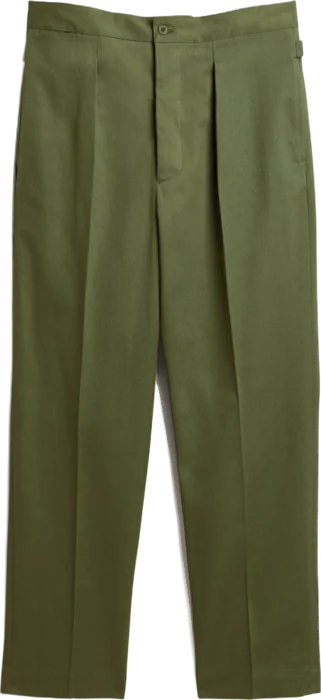
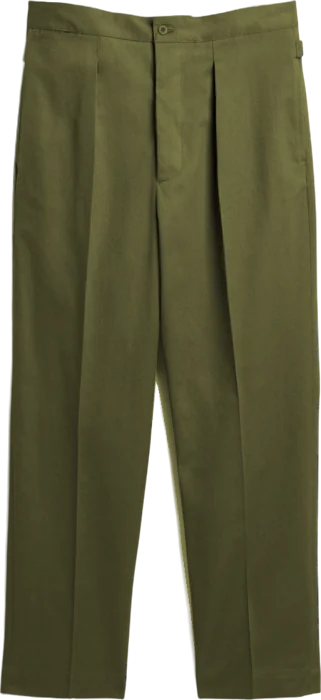
Cleaner Milano cut-out; Mogador recoloured to olive drab (1.0.20)
- Milano: hand and sleeve removed, side edges rebuilt as straight lines.
- Importer: new "tint X" field recolours a cut-out to the colour you own,
  keeping folds and shading.

Changed region(s): [[0.4673, 0.54, 0.5919, 0.87], [0.9346, 0.12, 0.9657, 0.18]]

diff --git a/docs/sw.js b/docs/sw.js
@@ -1,6 +1,6 @@
 // Offline copy of the app. tools/release.cjs bumps VERSION and refreshes FILES on every release,
 // which is what makes phones notice a new version.
-const VERSION = 'wardrobe-v1.0.19';
+const VERSION = 'wardrobe-v1.0.20';
 // FILES-START
 const FILES = ["./","data/items.json","data/wishlist.json","icon-192.png","icon-512.png","index.html","manifest.webmanifest"];
 // FILES-END

diff --git a/docs/index.html b/docs/index.html
@@ -322,7 +322,7 @@ body.building .toast{bottom:calc(80px + env(safe-area-inset-bottom))}
 <div class="toast" id="toast" role="status" aria-live="polite"><span id="toastMsg"></span><button id="toastUndo">Undo</button></div>
 
 <script>
-const APP_VERSION='1.0.19';
+const APP_VERSION='1.0.20';
 /* ===== storage ===== */
 const KEY='wardrobe-db-v2';
 const $=id=>document.getElementById(id);

diff --git a/tools/import_items.py b/tools/import_items.py
@@ -13,6 +13,8 @@ Fields:  size X           the size you own (as the shop writes it)
          photo FILE       a photo in import/photos (laid flat or hung, plain background)
          cat top|bottom|jacket|shoes   if the guess is wrong
          worn N           times already worn before the app (counts towards cost per wear)
+         tint X           recolour the photo when the shop's colour differs from yours
+                          (a colour name from the list below, or #rrggbb), keeping folds and shading
          any 'measure number' pairs (length 70, chest 110, waist 82, inseam 81,
          front rise 30) - used when the shop has no size chart
 """
@@ -56,7 +58,7 @@ def parse_line(line):
     head, fields = parts[0], {}
     meas = {}
     for p in parts[1:]:
-        m = re.match(r'(size|photo|cat|name|brand|link|paid|price|bought|from|store|colou?r|notes?|priority|worn)\s*:?\s+(.+)$', p, re.I)
+        m = re.match(r'(size|photo|cat|name|brand|link|paid|price|bought|from|store|colou?r|notes?|priority|worn|tint)\s*:?\s+(.+)$', p, re.I)
         if m:
             fields[m.group(1).lower()] = m.group(2).strip()
             continue
@@ -183,6 +185,19 @@ def placeholder(cat, colour, shorts=False, long_sleeves=False):
     return im.crop(im.getbbox())
 
 
+def tint(rgba, colour):
+    """Recolour a cut-out to `colour` (name or #hex): the garment's average becomes that colour,
+    and every pixel keeps its brightness relative to the average, so folds and texture stay."""
+    hexc = COLOURS.get(colour.lower(), colour).lstrip('#')
+    target = np.array([int(hexc[i:i + 2], 16) for i in (0, 2, 4)], float)
+    a = np.asarray(rgba).astype(float)
+    solid = a[..., 3] > 128
+    lum = a[..., :3] @ [0.299, 0.587, 0.114]
+    rel = lum / max(np.median(lum[solid]), 1)
+    a[..., :3] = np.clip(target * rel[..., None], 0, 255)
+    return Image.fromarray(a.astype('uint8'), 'RGBA')
+
+
 def colour_of(text):
     t = text.lower()
     for name in sorted(COLOURS, key=len, reverse=True):
@@ -262,6 +277,8 @@ def main(path, wishlist=False):
             long_sl = bool(re.search(r'sweater|sweatshirt|hoodie|jumper|knit|long.sleeve|shirt\b|oxford|flannel|jacket|coat|cardigan|overshirt', title, re.I)) and not re.search(r't-?shirt|\btee\b', title, re.I)
             rgba = placeholder(cat, colour_of(title), is_shorts, long_sl)
             notes.append('placeholder shape; add a photo for the real look')
+        if f.get('tint'):
+            rgba = tint(rgba, f['tint'])
         rgba.thumbnail((700, 700))
         rgba.save(os.path.join(IMG, iid + '.webp'), quality=86, method=6)
 
